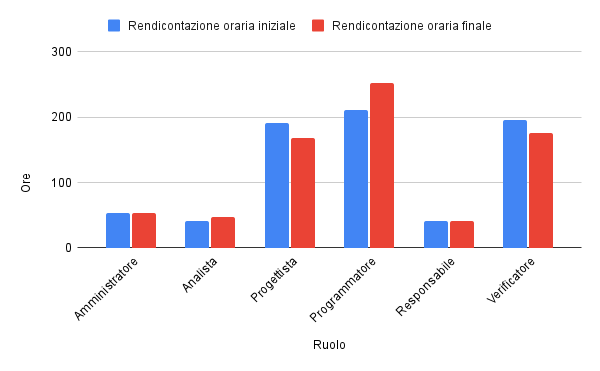
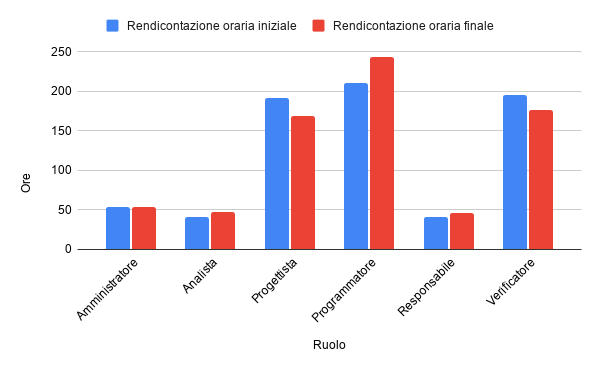
Flori/piano di progetto (#116)
* Aggiunto organigramma a PdP

* Aggiunte matricole

* Fatto changelog e schermata titolo

* Aggiunte firme e docenti a organigramma

* Modificata struttura piano di progetto come discusso #66

* Aggiunta analisi fase di consolidamento dei requisiti

* Scostamento fase Progettazione architetturale

* Rischi rilevati fase Progettazione architetturale

* Modificata pianificazione fasi Progettazione di dettaglio e codifica, Validazione e collaudo

* Changelog e approvazione documento

* typo

* Aggiornata struttura changelog Piano di Progetto

* Aggiornamento sezione Attualizzazione dei rischi

* Corretti errori di compilazione

* Correzioni a sezione Attualizzazione dei rischi

* Aggiunta comandi riferimento documenti

* Aggiornamento pianificazione Validazione e Collaudo

* Aggiunto consultivo di periodo fase progettazione di dettaglio e codifica

* Aggiornamento sezione Attualizzazione rischi e errori grammaticali

* Piccoli errori

* Preparato documento per RQ

* Correzione a pianificazione fase validazione e collaudo

* Correzione errori grammaticali norme di progetto

* Correzione errori grammaticali

* Consistenza maiuscole PdP

* Aggiornamento sezione rilevazione dei rischi

* Aggiunte conclusioni e scostamenti periodo

* Aggiunta distribuzione oraria individuale

diff --git a/piano-di-progetto/source/sections/scostamento.tex b/piano-di-progetto/source/sections/scostamento.tex
@@ -1,4 +1,4 @@
-\section{Analisi degli scostamenti} 
+\section{Analisi degli scostamenti}
 
 \subsection{Consuntivo del periodo di analisi}
     \label{section:consultivo_analisi}
@@ -124,16 +124,16 @@
             i \euro\ 13664 preventivati.
 \subsection{Consultivo del periodo di verifica e collaudo}
     \subsubsection{Incremento 1}
-        Durante l'incremento sono stati implementati i casi d'uso \hyperref[table:pianificazione_verifica]{indicati nella pianificazione}. Sono stati inoltre implementati i casi d'uso previsti per il secondo incremento. Questo ha causato un leggero aumento delle ore rispetto a quanto preventivato. Questo permetterà durante l'incremento successivi di rimanere in linea con le previsioni, in quanto la settimana successiva la maggior parte del team sarà impegnata nella preparazione dell'esame teorico di Ingegneria del Software. All'incremento sono state dedicate in tutto \textbf{65 ore}, rendicontate nella seguente tabella.
+        Durante l'incremento sono stati implementati i casi d'uso \hyperref[table:pianificazione_verifica]{indicati nella pianificazione}. Sono stati inoltre implementati i casi d'uso previsti per il secondo incremento. Questo ha causato un leggero aumento delle ore rispetto a quanto preventivato. Questo permetterà durante l'incremento successivi di rimanere in linea con le previsioni, in quanto la settimana successiva la maggior parte del team sarà impegnata nella preparazione dell'esame teorico di Ingegneria del Software. All'incremento sono state dedicate in tutto \textbf{62 ore}, rendicontate nella seguente tabella.
         %startTable
         \def\salarycontent{
             {Amministratore,4,20,80},
             {Analista,      0,25,0},
             {Progettista,   10,22,220},
-            {Programmatore, 38,15,570},
+            {Programmatore, 35,15,525},
             {Responsabile,  3,30,90},
             {Verificatore,  10,15,150},
-            {Totale,        65,127, 1110},
+            {Totale,        62,127, 1075},
         }
         %endTable
         \input{source/tables/prospetto_economico.tex}
@@ -144,38 +144,38 @@
             {Amministratore,4,20,80},
             {Analista,      0,25,0},
             {Progettista,   5,22,110},
-            {Programmatore, 11,15,165},
-            {Responsabile,  3,30,90},
+            {Programmatore, 10,15,150},
+            {Responsabile,  4,30,120},
             {Verificatore,  2,15,30},
-            {Totale,        25,127,475},
+            {Totale,        25,127,490},
         }
         %endTable
         \input{source/tables/prospetto_economico.tex}
     \subsubsection{Incremento 3}
-        Le ore preventivate sono state rispettate: il team si è dedicato nella sua interezza all'implementazione dei test di unità e sistema. Inoltre sono state raccolti e preparati i dati rilevanti per le metriche da mostrare a cruscotto nel \PdQ . Segue la rendicontazione.
+        In totale sono state registrate meno ore rispetto a quanto rendicontate, \textbf{67 ore} contro 70. Il team si è dedicato nella sua interezza all'implementazione dei test di unità e sistema. Inoltre sono state raccolti e preparati i dati rilevanti per le metriche da mostrare a cruscotto nel \PdQ . Segue la rendicontazione.
         %startTable
         \def\salarycontent{
             {Amministratore,4,20,80},
             {Analista,      0,25,0},
             {Progettista,   10,22,220},
-            {Programmatore, 31,15,475},
-            {Responsabile,  5,30,150},
+            {Programmatore, 27,15,415},
+            {Responsabile,  6,30,180},
             {Verificatore,  20,15,300},
-            {Totale,        70,127,1215},
+            {Totale,        67,127,1185},
         }
         %endTable
         \input{source/tables/prospetto_economico.tex}
     \subsubsection{Incremento 4}
-        La coverage raggiunta non è ancora quella sufficiente indicata nel documento \PdQ\ il team ha deciso di dedicare ulteriori ore al testing e quindi all'attività di programmazione. Sono state tolte ore all'attività di verifica allo scopo di non superare l'offerta al proponente. Sono svolte le ultime attività di verifica. Nella tabella seguente è indicata la rendicontazione, per un totale di \textbf{20 ore} lavorative.
+        La coverage raggiunta non è ancora quella sufficiente indicata nel documento \PdQ\ il team ha deciso di dedicare ulteriori ore al testing e quindi all'attività di programmazione. Sono state tolte ore all'attività di verifica allo scopo di non superare l'offerta al proponente. Sono svolte le ultime attività di verifica. Nella tabella seguente è indicata la rendicontazione, per un totale di \textbf{29 ore} lavorative.
         %startTable
         \def\salarycontent{
             {Amministratore,4,20,80},
             {Analista,      0,25,0},
             {Progettista,   0,22,0},
-            {Programmatore, 12,15,180},
-            {Responsabile,  4,30,120},
+            {Programmatore, 10,15,180},
+            {Responsabile,  7,30,210},
             {Verificatore,  8,15,120},
-            {Totale,        28,127,500},
+            {Totale,        29,127,560},
         }
         %endTable
         \input{source/tables/prospetto_economico.tex}
@@ -191,11 +191,12 @@
             {Amministratore,16,20,320},
             {Analista,      0,25,0},
             {Progettista,   25,22,550},
-            {Programmatore, 92,15,1380},
-            {Responsabile,  15,30,450},
+            {Programmatore, 82,15,1230},
+            {Responsabile,  20,30,600},
             {Verificatore,  40,15,600},
             {Totale,        188,127,3300},
         }
+        Si noti inoltre che il ruolo di responsabile ha richiesto più ore rispetto a quanto preventivato, questo perchè la fase di revisione finale, nonché la stesura di questa sezione e la successiva hanno richiesto più impegno di quanto si pensasse inizialmente.
         %endTable
         \input{source/tables/prospetto_economico.tex}
         Segue un diagramma a torta che evidenzia la nuova distribuzione delle ore rispetto a quella preventivata inizialmente, che si può trovare al \hyperref[image:verifica_ruoli]{seguente collegamento}. 
@@ -235,33 +236,66 @@
         \input{source/tables/prospetto_economico.tex}
         L'offerta finale ammonta a \textbf{13638 euro}. Il team si è impegnato a rimanere in linea con l'offerta finale di \textbf{13664 euro}, quando necessario, ridistribuendo l'impegno orario tra i diversi ruoli. 
 \subsection{Conclusioni}
-        Seguono osservazioni sull'avanzamento dell'attività di progetto e alcune considerazioni finali.
-        \\ \\ \noindent
-        Inizialmente la pianificazione risultava superficiale e nonostante sia stato dichiarato l'utilizzo del modello incrementale, effettivamente è stato implementato una metodologia pseudo-sequenziale. Inoltre la pianificazione era specializzata sui singoli prodotti (durante la fase di analisi solo documentali), anziché concentrarsi globalmente sull'attività di progetto. A questo è stato posto rimedio nelle fasi successive, rendendo la pianificazione più fine (e precisa). Il periodo, solitamente coincidente con l'intervallo di tempo tra una revisione di avanzamento e la successiva, è stato diviso in segmenti denominati incrementi, della durata di una settimana circa. In ogni incremento sono individuate delle attività più rilevanti, ma sempre in modo piuttosto superficiale, in modo da permettere una certa elasticità al team. Questo ha permesso un controllo più fine dell'avanzamento del progetto. Solo nell'ultima fase è stato collegato ad ogni incremento un monte ore, permettendo oltre che un consuntivo più significativo, di adeguare di incremento in incremento l'impegno orario richiesto.
-        \\ \\ \noindent
-        Seguono due grafici che evidenziano lo stesso trend in modi differenti: 
-        \begin{itemize}
-            \item il primo ci permette di individuare con più facilità le modifiche apportate ai vari ruoli;
-            \item il secondo (i due grafici a torta) rende visibile la distribuzione oraria dei vari ruoli e le differenze tra il preventivato e quanto effettivamente è avvenuto.
-        \end{itemize}
-        \begin{figure}[H]
-            \centering
-            \includegraphics[width=\textwidth]{source/img/confronto_rendicontazione.png}
-            \caption{Confronto rendicontazione oraria tra distribuzione preventivata contro effettiva}
-        \end{figure}
-        \begin{figure}[H]
-            \centering
-            \includegraphics[width=\textwidth]{source/img/confronto_divisione_oraria.png}
-            \caption{A sinistra la divisione oraria preventivata, a destra la divisione oraria finale}
-        \end{figure}
-        I due grafici permettono le seguenti osservazioni:
-        \begin{itemize}
-            \item sebbene la distribuzione oraria sia effettivamente variata, la variazione non è significativa. Ciò dimostra un buon lavoro di pianificazione dei responsabili;
-            \item il \textbf{ruolo di programmatore} ha visto un incremento significativo di ore, soprattutto nell'ultima fase. Questo ruolo non era stato sottovalutato durante la pianificazione iniziale, ed era stata individuata la fase di progettazione di dettaglio e codifica come quella per cui sarebbe stato più richiesto il ruolo. Tuttavia era anche stato stimato che \hd\ e testing di quest'ultima sarebbero stati pressoché conclusi al termine della fase sopra citata. Questo non è accaduto, motivo per cui è stato richiesto un impegno importante al programmatore anche durante l'ultima fase di validazione e collaudo, per eseguire in modo soddisfacente il testing;
-            \item il \textbf{ruolo di verificatore} è stato considerato subito come essenziale, si può notare come al termine dell'attività di progetto il ruolo abbia richiesto meno ore rispetto a quanto preventivato. Questo è stato possibile grazie al consolidamento del way of working per cui ogni scatto di versione richiede una verifica, e ha reso l'attività in questione molto più agevole;
-            \item l'impegno orario dedicato al \textbf{ruolo di progettista} è stato invece sopravvalutato: parte della colpa va al linguaggio di programmazione richiesto, JavaScript, sebbene molto popolare, non particolarmente avanzato. Il team ha quindi deciso di utilizzare meno possibile i design pattern in quanto questi avrebbero richiesto o di utilizzare (e imparare) nuovi framework, oppure utilizzare artefici particolari per implementare costrutti non presenti nativamente nel linguaggio di programmazione utilizzato;
-            \item il \textbf{ruolo di analista} ha visto un incremento delle ore a lui inizialmente dedicate: questo denota un'iniziale superficialità, durante la fase di analisi, da parte degli analisti. A questo è stato posto rimedio nelle fasi successive, il lavoro degli analisti si concretizza nel \AdR\ ritenuto ormai un documento \textit{maturo};
-            \item i \textbf{ruoli di amministratore e responsabile} non hanno invece subito modifiche orarie, e i loro compiti sono rimasti i medesimi durante l'intera durata dell'attività di progetto, rispettivamente supervisione dell'ambiente di lavoro e manutenzione del documento Norme di Progetto, manutenzione del Piano di Progetto e approvazione dei documenti.
-        \end{itemize}
+    L'offerta finale ammonta a \textbf{13638 euro}, con una differenza in positivo rispetto a quanto preventivato inizialmente. Il team ritiene di aver portato a termine con successo l'attività di progetto e di aver prodotto artefatti documentali soddisfacenti e di aver raggiunto gli obiettivi richiesti dal capitolato \hd .
+    Seguono osservazioni sull'avanzamento dell'attività di progetto e alcune considerazioni finali.
+        \subsubsection{Pianificazione}
+          Inizialmente la pianificazione risultava superficiale e nonostante sia stato dichiarato l'utilizzo del modello incrementale, effettivamente è stato implementato una metodologia pseudo-sequenziale. Inoltre la pianificazione era specializzata sui singoli prodotti (durante la fase di analisi solo documentali), anziché concentrarsi globalmente sull'attività di progetto. A questo è stato posto rimedio nelle fasi successive, rendendo la pianificazione più fine (e precisa). Il periodo, solitamente coincidente con l'intervallo di tempo tra una revisione di avanzamento e la successiva, è stato diviso in segmenti denominati incrementi, della durata di una settimana circa. In ogni incremento sono individuate delle attività più rilevanti, ma sempre in modo piuttosto superficiale, in modo da permettere una certa elasticità al team. Questo ha permesso un controllo più fine dell'avanzamento del progetto. Solo nell'ultima fase è stato collegato ad ogni incremento un monte ore, permettendo oltre che un consuntivo più significativo, di adeguare di incremento in incremento l'impegno orario richiesto.
+        \subsubsection{Distribuzione oraria dei ruoli}
+            Seguono due grafici che evidenziano lo stesso trend in modi differenti: 
+            \begin{itemize}
+                \item il primo ci permette di individuare con più facilità le modifiche apportate ai vari ruoli;
+                \item il secondo (i due grafici a torta) rende visibile la distribuzione oraria dei vari ruoli e le differenze tra il preventivato e quanto effettivamente è avvenuto.
+            \end{itemize}
+            \begin{figure}[H]
+                \centering
+                \includegraphics[width=\textwidth]{source/img/confronto_rendicontazione.png}
+                \caption{Confronto rendicontazione oraria tra distribuzione preventivata contro effettiva}
+            \end{figure}
+            \begin{figure}[H]
+                \centering
+                \includegraphics[width=\textwidth]{source/img/confronto_divisione_oraria.png}
+                \caption{A sinistra la divisione oraria preventivata, a destra la divisione oraria finale}
+            \end{figure}
+            I due grafici permettono le seguenti osservazioni:
+            \begin{itemize}
+                \item sebbene la distribuzione oraria sia effettivamente variata, la variazione non è significativa. Ciò dimostra un buon lavoro di pianificazione dei responsabili;
+                \item il \textbf{ruolo di programmatore} ha visto un incremento significativo di ore, soprattutto nell'ultima fase. Questo ruolo non era stato sottovalutato durante la pianificazione iniziale, ed era stata individuata la fase di progettazione di dettaglio e codifica come quella per cui sarebbe stato più richiesto il ruolo. Tuttavia era anche stato stimato che \hd\ e testing di quest'ultima sarebbero stati pressoché conclusi al termine della fase sopra citata. Questo non è accaduto, motivo per cui è stato richiesto un impegno importante al programmatore anche durante l'ultima fase di validazione e collaudo, per eseguire in modo soddisfacente il testing;
+                \item il \textbf{ruolo di verificatore} è stato considerato subito come essenziale, si può notare come al termine dell'attività di progetto il ruolo abbia richiesto meno ore rispetto a quanto preventivato. Questo è stato possibile grazie al consolidamento del way of working per cui ogni scatto di versione richiede una verifica, e ha reso l'attività in questione molto più agevole;
+                \item l'impegno orario dedicato al \textbf{ruolo di progettista} è stato invece sopravvalutato: parte della colpa va al linguaggio di programmazione richiesto, JavaScript, sebbene molto popolare, non particolarmente avanzato. Il team ha quindi deciso di utilizzare meno possibile i design pattern in quanto questi avrebbero richiesto o di utilizzare (e imparare) nuovi framework, oppure utilizzare artefici particolari per implementare costrutti non presenti nativamente nel linguaggio di programmazione utilizzato;
+                \item il \textbf{ruolo di analista} ha visto un incremento delle ore a lui inizialmente dedicate: questo denota un'iniziale superficialità, durante la fase di analisi, da parte degli analisti. A questo è stato posto rimedio nelle fasi successive, il lavoro degli analisti si concretizza nel \AdR\ ritenuto ormai un documento \textit{maturo};
+                \item i \textbf{ruoli di amministratore e responsabile} non hanno invece subito modifiche orarie, e i loro compiti sono rimasti i medesimi durante l'intera durata dell'attività di progetto, rispettivamente supervisione dell'ambiente di lavoro e manutenzione del documento Norme di Progetto, manutenzione del Piano di Progetto e approvazione dei documenti.
+            \end{itemize}
         \noindent
-        L'offerta finale ammonta a \textbf{13638 euro}, con una differenza in positivo rispetto a quanto preventivato inizialmente. Il team ritiene di aver portato a termine con successo l'attività di progetto e di aver prodotto artefatti documentali soddisfacenti e di aver raggiunto gli obiettivi richiesti dal capitolato \hd .
+
+        \subsubsection{Distribuzione oraria tra i membri del team}
+            Nella seguente tabella è riportata la distribuzione oraria dei ruoli per i singoli membri di \cod , oltre alla tabella sono riportati a confronto i diagrammi della divisione oraria dei ruoli per membro.
+            
+            %startTable
+            \def\hourlycontent{
+            {Andrea Breggion,   5,21,4,11(-7),40(+7),24,105},
+            {Matteo Falsetti,   5,5,5,33,27(+7),30(-7),105},
+            {Alessandro Flori,  10(+5),4,7,18(-10),27(+4),39,105},
+            {Andrea Mascari,    4,6,11(+6),25(-6),33,26,105},
+            {Diego Piola,       12,6,9,26,37(+3),15(-3),105},
+            {Andrea Signori,    4,6,6,26,36,27,105},
+            {Damiano Zanardo,   6,6,5,30,43(+10),15(-10),105},
+            {Ore totali,        46(+5),54,47(+6),169(-23),243(+32),176(-20),735},
+            }
+            %endTable
+            \input{source/tables/prospetto_orario.tex}
+
+            \begin{figure}[H]
+                \centering
+                \begin{minipage}[b]{0.4\textwidth}
+                  \includegraphics[width=\textwidth]{source/img/no_investimento_orari.png}
+                  \caption{Divisione oraria preventivata}
+                \end{minipage}
+                \hfill
+                \begin{minipage}[b]{0.4\textwidth}
+                  \includegraphics[width=\textwidth]{source/img/no_investimento_orari_effettivo.png}
+                  \caption{Divisione oraria effettiva}
+                \end{minipage}
+            \end{figure}
+
+            Quanto proposto sopra permette un'osservazione: l'attività di progetto è stata estremamente collaborativa e ogni membro ha svolto ogni ruolo. Si può notare inoltre che non c'è un vero e proprio responsabile di progetto, questo ha forzato il team a comunicare e ogni decisione è stata presa collettivamente.
+            In generale la distribuzione delle ore non è cambiata particolarmente rispetto a quanto previsto inizialmente. Questo perché l'orario già a inizio di attività di progetto era stato pensato in modo da accomodare le attitudini e preferenze di ogni membro del gruppo. Si noti che ogni membro del team ha visto incrementarsi le ore del ruolo di programmatore, la motivazione è già stata spiegata nella situazione precedente.

diff --git a/piano-di-progetto/source/sections/preventivo.tex b/piano-di-progetto/source/sections/preventivo.tex
@@ -38,7 +38,7 @@ Si noti che nelle tabelle sono state utilizzate delle sigle, definite nelle \NdP
     \begin{figure}[H]
         \centering
         \includegraphics[width=0.8\textwidth]{source/img/analisi_ruoli.png}
-        \caption{costo del personale nella fase di analisi}
+        \caption{Costo del personale nella fase di analisi}
     \end{figure}
 \subsection{Consolidamento dei requisiti}
     \subsubsection{Prospetto orario}
@@ -58,7 +58,7 @@ Si noti che nelle tabelle sono state utilizzate delle sigle, definite nelle \NdP
     \begin{figure}[H]
         \centering
         \includegraphics[width=0.8\textwidth]{source/img/consolidamento_orari.png}
-        \caption{divisione oraria dell'attività di consolidamento dei requisiti}
+        \caption{Divisione oraria dell'attività di consolidamento dei requisiti}
     \end{figure}
     \subsubsection{Prospetto economico}
     %startTable
@@ -76,7 +76,7 @@ Si noti che nelle tabelle sono state utilizzate delle sigle, definite nelle \NdP
     \begin{figure}[H]
         \centering
         \includegraphics[width=0.8\textwidth]{source/img/consolidamento_ruoli.png}
-        \caption{costo del personale nella fase di consolidamento dei requisiti}
+        \caption{Costo del personale nella fase di consolidamento dei requisiti}
     \end{figure}
 \subsection{Progettazione architetturale}
     \subsubsection{Prospetto orario}
@@ -96,7 +96,7 @@ Si noti che nelle tabelle sono state utilizzate delle sigle, definite nelle \NdP
     \begin{figure}[H]
         \centering
         \includegraphics[width=0.8\textwidth]{source/img/architettura_orari.png}
-        \caption{divisione oraria dell'attività di progettazione architetturale}
+        \caption{Divisione oraria dell'attività di progettazione architetturale}
     \end{figure}
     \subsubsection{Prospetto economico}
     %startTable
@@ -114,7 +114,7 @@ Si noti che nelle tabelle sono state utilizzate delle sigle, definite nelle \NdP
     \begin{figure}[H]
         \centering
         \includegraphics[width=0.8\textwidth]{source/img/architettura_ruoli.png}
-        \caption{costo del personale nella fase di progettazione architetturale}
+        \caption{Costo del personale nella fase di progettazione architetturale}
     \end{figure}
 \subsection{Progettazione di dettaglio e codifica}
     \subsubsection{Prospetto orario}
@@ -135,7 +135,7 @@ Si noti che nelle tabelle sono state utilizzate delle sigle, definite nelle \NdP
     \begin{figure}[H]
         \centering
         \includegraphics[width=0.8\textwidth]{source/img/codifica_orari.png}
-        \caption{divisione oraria dell'attività di progettazione di dettaglio e codifica}
+        \caption{Divisione oraria dell'attività di progettazione di dettaglio e codifica}
     \end{figure}
     \subsubsection{Prospetto economico}
     %startTable
@@ -153,7 +153,7 @@ Si noti che nelle tabelle sono state utilizzate delle sigle, definite nelle \NdP
     \begin{figure}[H]
         \centering
         \includegraphics[width=0.8\textwidth]{source/img/codifica_ruoli.png}
-        \caption{costo del personale nella fase di progettazione di dettaglio e codifica}
+        \caption{Costo del personale nella fase di progettazione di dettaglio e codifica}
     \end{figure}
 \subsection{Validazione e collaudo}
     \subsubsection{Prospetto orario}
@@ -173,7 +173,7 @@ Si noti che nelle tabelle sono state utilizzate delle sigle, definite nelle \NdP
     \begin{figure}[H]
         \centering
         \includegraphics[width=0.8\textwidth]{source/img/validazione_orari.png}
-        \caption{divisione oraria dell'attività di validazione e collaudo}
+        \caption{Divisione oraria dell'attività di validazione e collaudo}
     \end{figure}
     \subsubsection{Prospetto economico}
     %startTable
@@ -192,7 +192,7 @@ Si noti che nelle tabelle sono state utilizzate delle sigle, definite nelle \NdP
     \begin{figure}[H]
         \centering
         \includegraphics[width=0.8\textwidth]{source/img/validazione_ruoli.png}
-        \caption{costo del personale nella fase di validazione e collaudo}
+        \caption{Costo del personale nella fase di validazione e collaudo}
     \end{figure}
 \subsection{Riepilogo}
     \subsection{Ore totali}
@@ -215,7 +215,7 @@ Si noti che nelle tabelle sono state utilizzate delle sigle, definite nelle \NdP
         \begin{figure}[H]
             \centering
             \includegraphics[width=0.8\textwidth]{source/img/totale_orari.png}
-            \caption{divisione oraria complessiva}
+            \caption{Divisione oraria complessiva}
         \end{figure}
         \paragraph{Prospetto economico}
         
@@ -234,7 +234,7 @@ Si noti che nelle tabelle sono state utilizzate delle sigle, definite nelle \NdP
         \begin{figure}[H]
             \centering
             \includegraphics[width=0.8\textwidth]{source/img/totale_ruoli.png}
-            \caption{costo del personale complessivo}
+            \caption{Costo del personale complessivo}
         \end{figure}
     \subsection{Ore rendicontate}
     All'interno di questa sottosezione è contenuto il riepilogo delle ore dedicate all'attività di progetto nonché il riepilogo dei costi relativi al periodo successivo alla RR.
@@ -256,7 +256,7 @@ Si noti che nelle tabelle sono state utilizzate delle sigle, definite nelle \NdP
         \begin{figure}[H]
             \centering
             \includegraphics[width=0.8\textwidth]{source/img/no_investimento_orari.png}
-            \caption{divisione oraria totale senza l'investimento iniziale}
+            \caption{Divisione oraria totale senza l'investimento iniziale}
         \end{figure}
         \paragraph{Prospetto economico}
         
@@ -275,7 +275,7 @@ Si noti che nelle tabelle sono state utilizzate delle sigle, definite nelle \NdP
         \begin{figure}[H]
             \centering
             \includegraphics[width=0.8\textwidth]{source/img/consolidamento_orari.png}
-            \caption{costo totale del personale senza l'investimento iniziale}
+            \caption{Costo totale del personale senza l'investimento iniziale}
         \end{figure}
     \subsection{Conclusioni}
     All'interno della tabella di cui sopra è indicata l'offerta con cui Code of Duty si presenta al committente. Tale somma ammonta a \euro\ 13664.

diff --git a/piano-di-progetto/source/changelog.tex b/piano-di-progetto/source/changelog.tex
@@ -3,7 +3,7 @@
 \def\modifiche{
     {4.0.0, 2021-05-21, Andrea Mascari, Responsabile, -, Approvazione del documento per RA},
     {3.2.0, 2021-05-21, Andrea Signori, Verificatore, -, Verifica del documento},
-    {3.1.2, 2021-05-20, Alessandro Flori, Responsabile, Andrea Mascari, Analisi1degli scostamenti{,} consultivo di periodo e conclusioni},
+    {3.1.2, 2021-05-20, Alessandro Flori, Responsabile, Andrea Mascari, Analisi degli scostamenti{,} consultivo di periodo e conclusioni},
     {3.1.1, 2021-05-20, Alessandro Flori, Responsabile, Matteo Falsetti, Consuntivo periodo incremento 4 fase di validazione e collaudo},
     {3.1.0, 2021-05-16, Diego Piola, Verificatore, -, Verifica del documento},
     {3.0.4, 2021-05-16, Alessandro Flori, Responsabile, Andrea Mascari, Consuntivo periodo incremento 3 fase di validazione e collaudo},

diff --git a/piano-di-progetto/source/title_page.tex b/piano-di-progetto/source/title_page.tex
@@ -1,6 +1,6 @@
 \newcommand{\titolodocumento}{Piano di progetto} % Titolo documento
-\newcommand{\versione}{3.0.0} % Versione documento
-\newcommand{\approvazione}{Diego Piola} % Responsabile di progetto
+\newcommand{\versione}{4.0.0} % Versione documento
+\newcommand{\approvazione}{Andrea Mascari} % Responsabile di progetto
 \newcommand{\redazione}{\parbox[t]{4cm}{Alessandro Flori\\Andrea Signori \\ Diego Piola \\ Andrea Mascari \\ Andrea Breggion \\ Matteo Falsetti}} % Redattori di questo documento
 \newcommand{\verifica}{\parbox[t]{4cm}{Alessandro Flori\\Andrea Signori\\Andrea Breggion\\Matteo Falsetti}} % Verificatori di questo documento
 \newcommand{\stato}{Approvato} % Approvato
